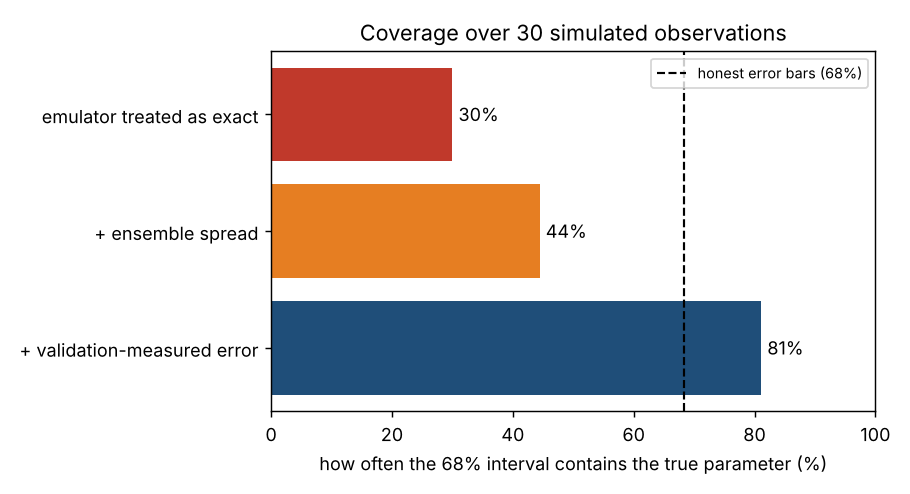
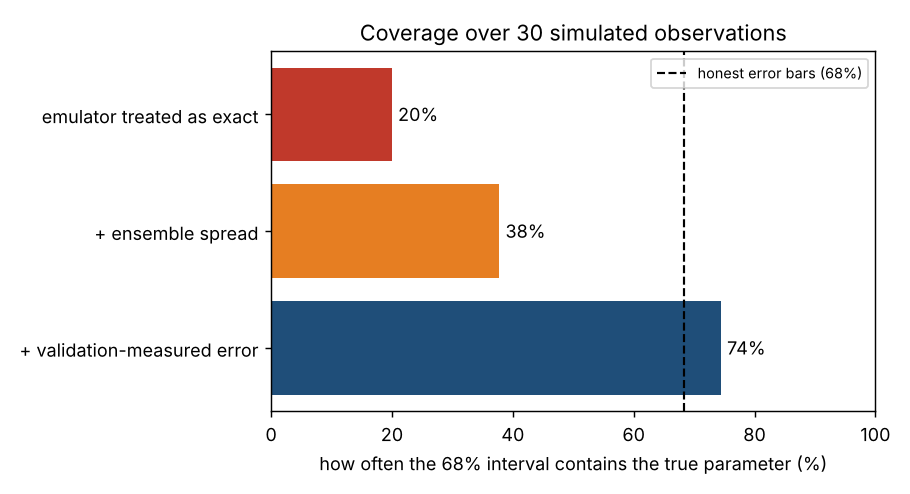
Document CAMB demonstration and final coverage results
On CAMB, the emulator is accurate to 0.05% and a likelihood evaluation
including emulator error is roughly 1,500-2,000x faster than one CAMB
call. With 2% noise both likelihoods give honest error bars; with 0.2%
noise treating the emulator as exact covers the truth only 55% of the
time, while including the validation-measured error gives 71%. Update
the toy coverage results, now drawn from the prior (20%, 38%, 74%).

Changed region(s): [[0.5231, 0.3644, 0.6462, 0.5769], [0.4308, 0.1215, 0.5538, 0.334], [0.7692, 0.6073, 0.8923, 0.8198]]

diff --git a/README.md b/README.md
@@ -2,7 +2,7 @@
 
 **Neural network emulators for slow scientific models, with calibrated uncertainty you can trust in Bayesian inference.**
 
-> **Status:** early development (`0.1.0.dev0`). Training-set generation, the ensemble emulator, the validation report and the likelihood are working and tested; the CAMB demonstration and packaging are next. See the [roadmap](#roadmap).
+> **Status:** early development (`0.1.0.dev0`). Training-set generation, the ensemble emulator, the validation report and the likelihood are working, tested, and demonstrated on CAMB; documentation and packaging are next. See the [roadmap](#roadmap).
 
 ## The problem
 
@@ -153,19 +153,62 @@ The likelihood compares the data with the emulator's prediction using a covarian
 
 Parameters outside the range the emulator was trained on are rejected, so the sampler never relies on extrapolation.
 
-**Does it work? A coverage test.** [`examples/coverage_test.py`](examples/coverage_test.py) simulates 30 observations with known true parameters (50 data points each, 1% noise), infers the parameters through a deliberately imperfect emulator (80 training runs), and counts how often the reported 68% interval contains the truth. Honest error bars contain it about 68% of the time:
+**Does it work? A coverage test.** [`examples/coverage_test.py`](examples/coverage_test.py) simulates 30 observations with true parameters drawn from the prior (50 data points each, 1% noise), infers the parameters through a deliberately imperfect emulator (80 training runs), and counts how often the reported 68% interval contains the truth. Honest error bars contain it about 68% of the time:
 
 ![Coverage of the 68% interval for three likelihoods](docs/images/coverage.png)
 
 | Likelihood | Truth inside the 68% interval |
 |---|---:|
-| Emulator treated as exact | 30% |
-| + ensemble spread | 44% |
-| + validation-measured error | 81% |
+| Emulator treated as exact | 20% |
+| + ensemble spread | 38% |
+| + validation-measured error | 74% |
 
-Treating the emulator as exact gives error bars far too small: the truth falls outside them most of the time. The ensemble spread helps, but not enough. The reason is that emulator errors are **systematic**: an emulator that is 1% too high at one scale is usually too high at the neighbouring scales too, so the error does not average away over 50 data points the way independent noise does. A 5-member ensemble can only describe a handful of such error patterns. The covariance measured on 300 validation runs captures them, and the result is honest, erring slightly on the cautious side (81% rather than 68%), because a single error estimate is applied everywhere, including regions where the emulator is better than average.
+Treating the emulator as exact gives error bars far too small: the truth falls outside them most of the time. The ensemble spread helps, but not enough. The reason is that emulator errors are **systematic**: an emulator that is 1% too high at one scale is usually too high at the neighbouring scales too, so the error does not average away over 50 data points the way independent noise does. A 5-member ensemble can only describe a handful of such error patterns. The covariance measured on 300 validation runs captures them, and the result is close to honest (74% against the ideal 68%), slightly on the cautious side because a single error estimate is applied everywhere, including regions where the emulator is better than average.
 
 With 30 observations of 3 parameters, each coverage figure is uncertain by about ±5 percentage points.
+
+The true parameters are drawn from the whole prior, here the range the emulator was trained on. That is what makes 68% the right target: a Bayesian credible interval is only guaranteed to contain the truth 68% of the time *on average over truths drawn from the prior*. Drawing them only from the middle of the ranges inflates coverage whenever posteriors are wide enough to feel the edges.
+
+For validation-measured error, the likelihood describes the measured error by its main correlated patterns (99.9% of the error variance by default, set with `error_variance_kept`) and treats the small remainder as independent per-output error. This is mathematically almost identical and much faster: on the CAMB example below, one evaluation takes about 0.3–0.5 ms instead of several milliseconds.
+
+## Demonstration on CAMB
+
+[`examples/camb/`](examples/camb) applies `emutrust` to a real cosmology problem: the linear matter power spectrum P(k) from the Boltzmann code [CAMB](https://camb.info/), at 200 scales between k = 10⁻⁴ and 1 h/Mpc, over five ΛCDM parameters (H0, ombh2, omch2, ns, As). The setup matches the earlier [cosmo-emulator](https://github.com/mqurban/cosmo-emulator) project, which treated its emulator as exact.
+
+- [`generate.py`](examples/camb/generate.py) runs CAMB for 300 training and 300 validation points (CAMB 2.0.5). The runs are included in the repository, so CAMB itself is only needed to simulate new observations.
+- [`demo.py`](examples/camb/demo.py) trains a 5-member emulator, validates it, times it against CAMB and runs a coverage test.
+
+**Accuracy and speed.**
+
+| | Result |
+|---|---:|
+| Mean error on 300 unseen spectra | 0.05% |
+| Median error | 0.03% |
+| Worst error (near the edges of the parameter ranges) | 1.5% |
+| Truth within 1 / 2 predicted std | 71% / 92% |
+| One CAMB call | 0.58 s |
+| One likelihood evaluation, including emulator error | 0.3–0.5 ms |
+| One MCMC run (192,000 evaluations) | about 1 minute, against about 31 hours with CAMB in the loop |
+
+The speed-up is roughly 1,500–2,000x; the exact figure varies with machine load.
+
+![Validation of the CAMB emulator](docs/images/camb_validation.png)
+
+**Are the error bars honest?** For 30 simulated observations at each of two noise levels, with true parameters drawn from the prior, MCMC (32 walkers, 6,000 steps, at least 47 autocorrelation times after burn-in) gives:
+
+![Coverage for CAMB at two noise levels](docs/images/camb_coverage.png)
+
+| Noise per data point | Emulator treated as exact | + validation-measured error |
+|---|---:|---:|
+| 2% | 75% | 75% |
+| 0.2% | **55%** | **71%** |
+
+(ideal: 68%; each figure is uncertain by about ±4 percentage points)
+
+- **At 2% noise, the emulator's error does not matter.** The emulator is accurate to about 0.05%, forty times smaller than the noise, and both likelihoods agree. Treating this emulator as exact was safe for data of this quality.
+- **At 0.2% noise, it does.** The emulator's systematic errors become comparable to the information in the data, and treating it as exact makes the error bars too small: the truth falls inside the 68% interval only 55% of the time. Including the validation-measured error restores honest error bars (71%).
+
+As surveys reach sub-percent precision, an emulator that was good enough yesterday stops being good enough, and its error has to be part of the inference.
 
 ### Toy model for testing
 
@@ -180,7 +223,7 @@ With 30 observations of 3 parameters, each coverage figure is uncertain by about
 - [x] Validation report: held-out accuracy, worst cases, uncertainty calibration
 - [x] Likelihood that includes emulator error (ensemble or validation-measured), ready for `emcee`
 - [x] Coverage test showing the effect on inference
-- [ ] Demonstration on CAMB: inference with and without emulator uncertainty, compared against the true parameters
+- [x] Demonstration on CAMB: accuracy, speed, and coverage with and without emulator error
 - [ ] Documentation and PyPI release
 
 ## Related work
